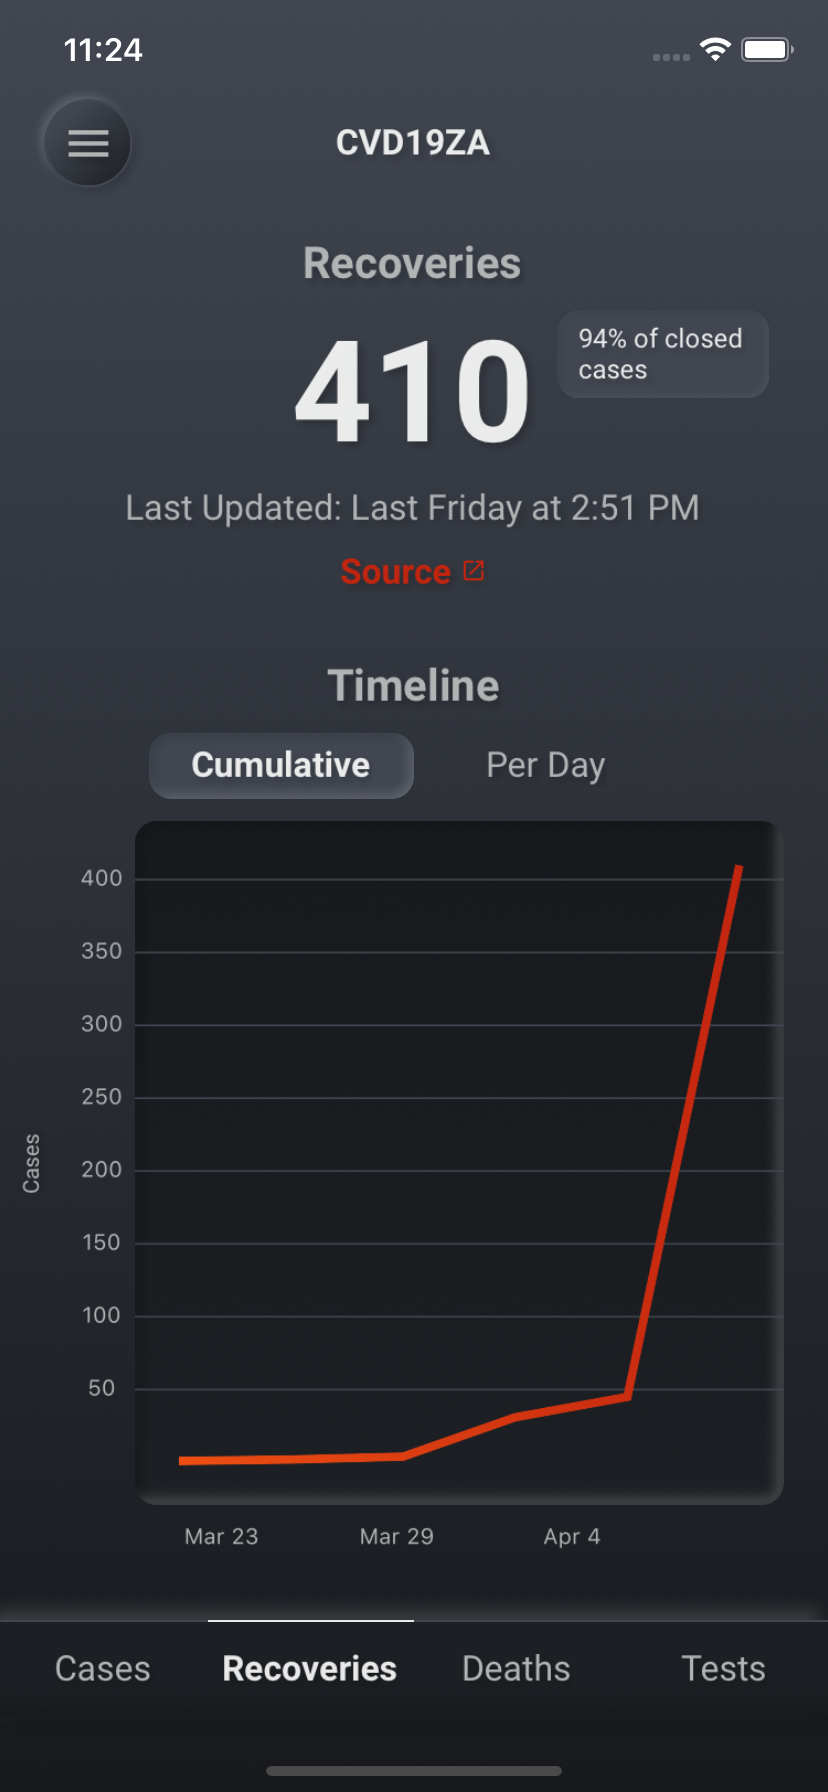
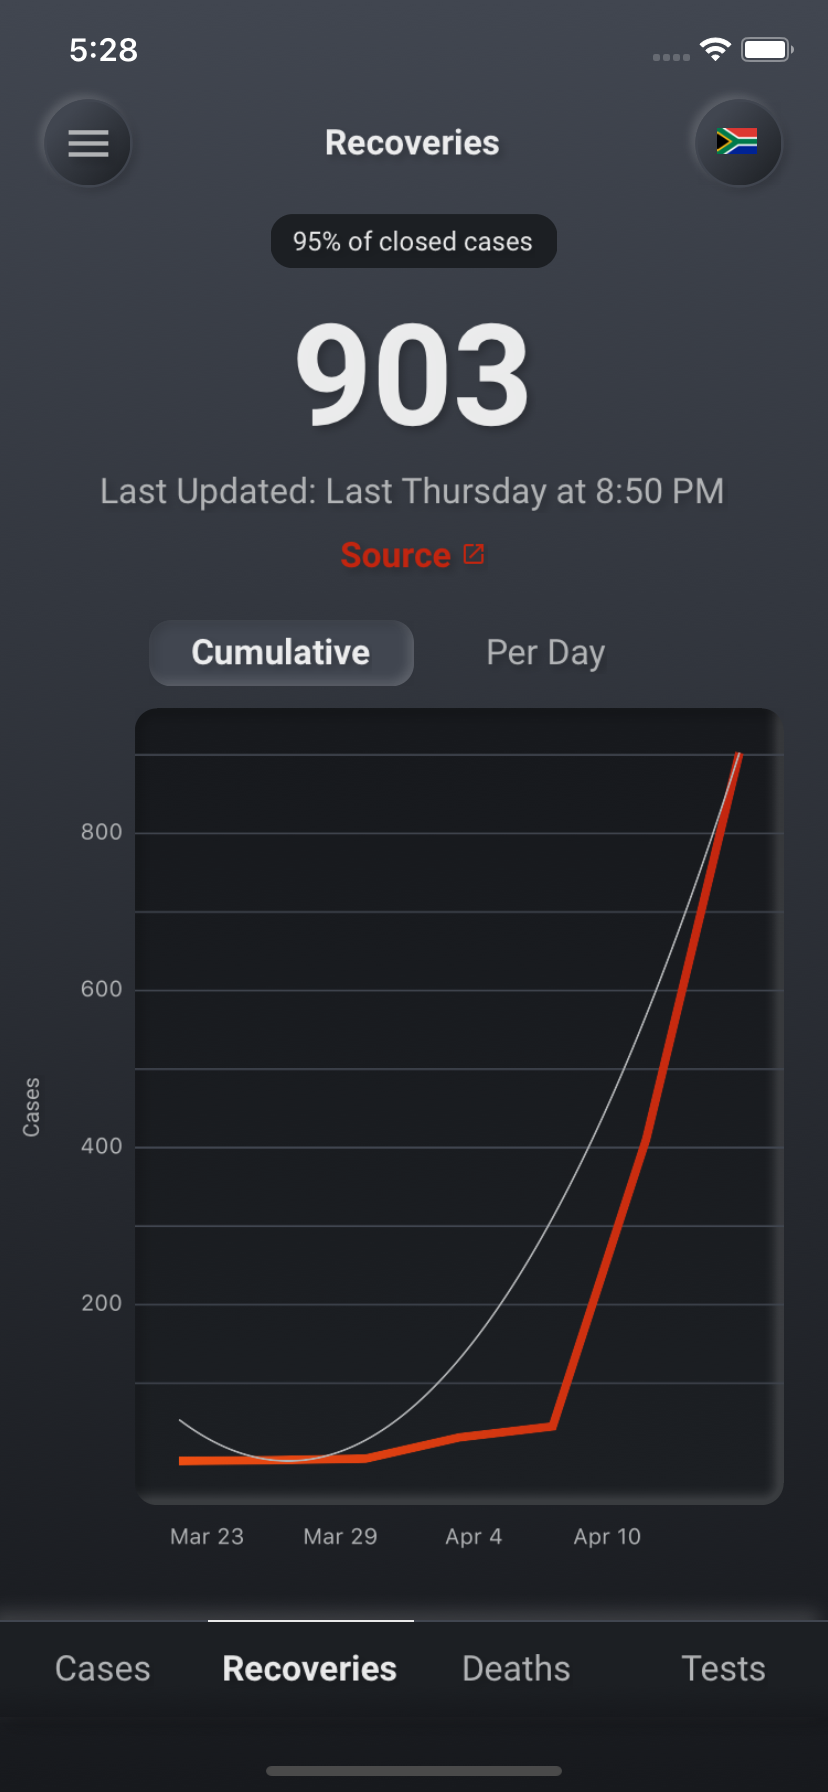
Update screenshots

diff --git a/README.md b/README.md
@@ -1,10 +1,11 @@
 # covid-19-south-africa-app
 
 <div>
-<img src="./screenshots/cases.png" width="200">
-<img src="./screenshots/recoveries.png" width="200">
-<img src="./screenshots/deaths.png" width="200">
-<img src="./screenshots/tests.png" width="200">
+<img src="./screenshots/cases.png" width="160">
+<img src="./screenshots/select-country.png" width="160">
+<img src="./screenshots/recoveries.png" width="160">
+<img src="./screenshots/deaths.png" width="160">
+<img src="./screenshots/tests.png" width="160">
 </div>
 
 ## Development
